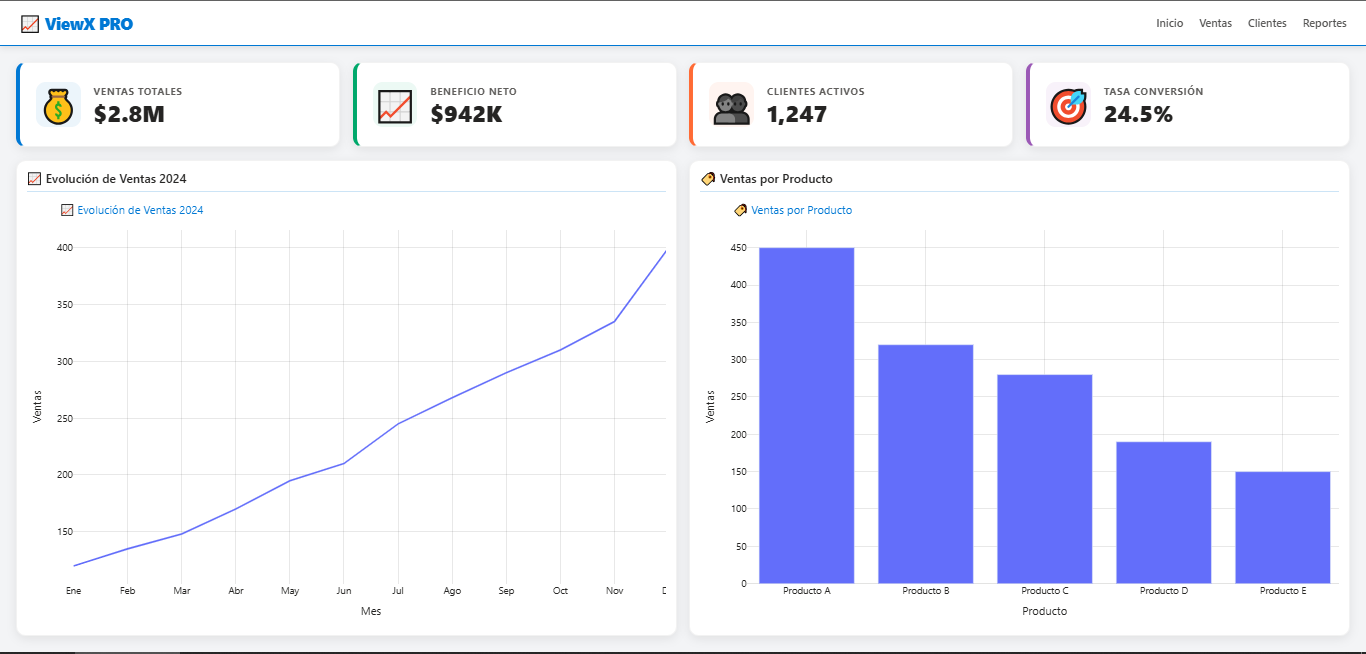
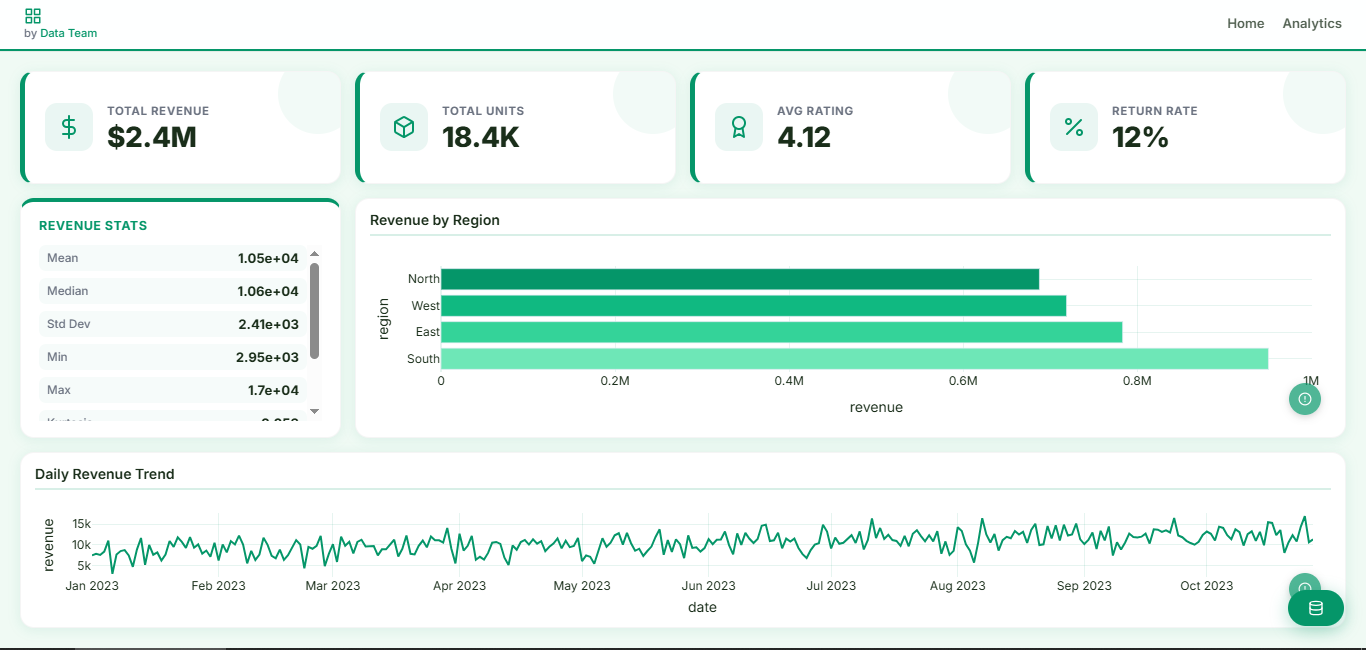
Improve Readme

diff --git a/README.md b/README.md
@@ -102,7 +102,7 @@ dashboard.generate("mi_dashboard.html")
 
 ```
 
-![DashBoardIris](https://raw.githubusercontent.com/GhostAnalyst30/ViewX/main/images_for_git/DashBoard_Example.png
+![DashBoardViewX](https://raw.githubusercontent.com/GhostAnalyst30/ViewX/main/images_for_git/DashBoard_Example.png
 )
 
 ### Crear una Presentacion
